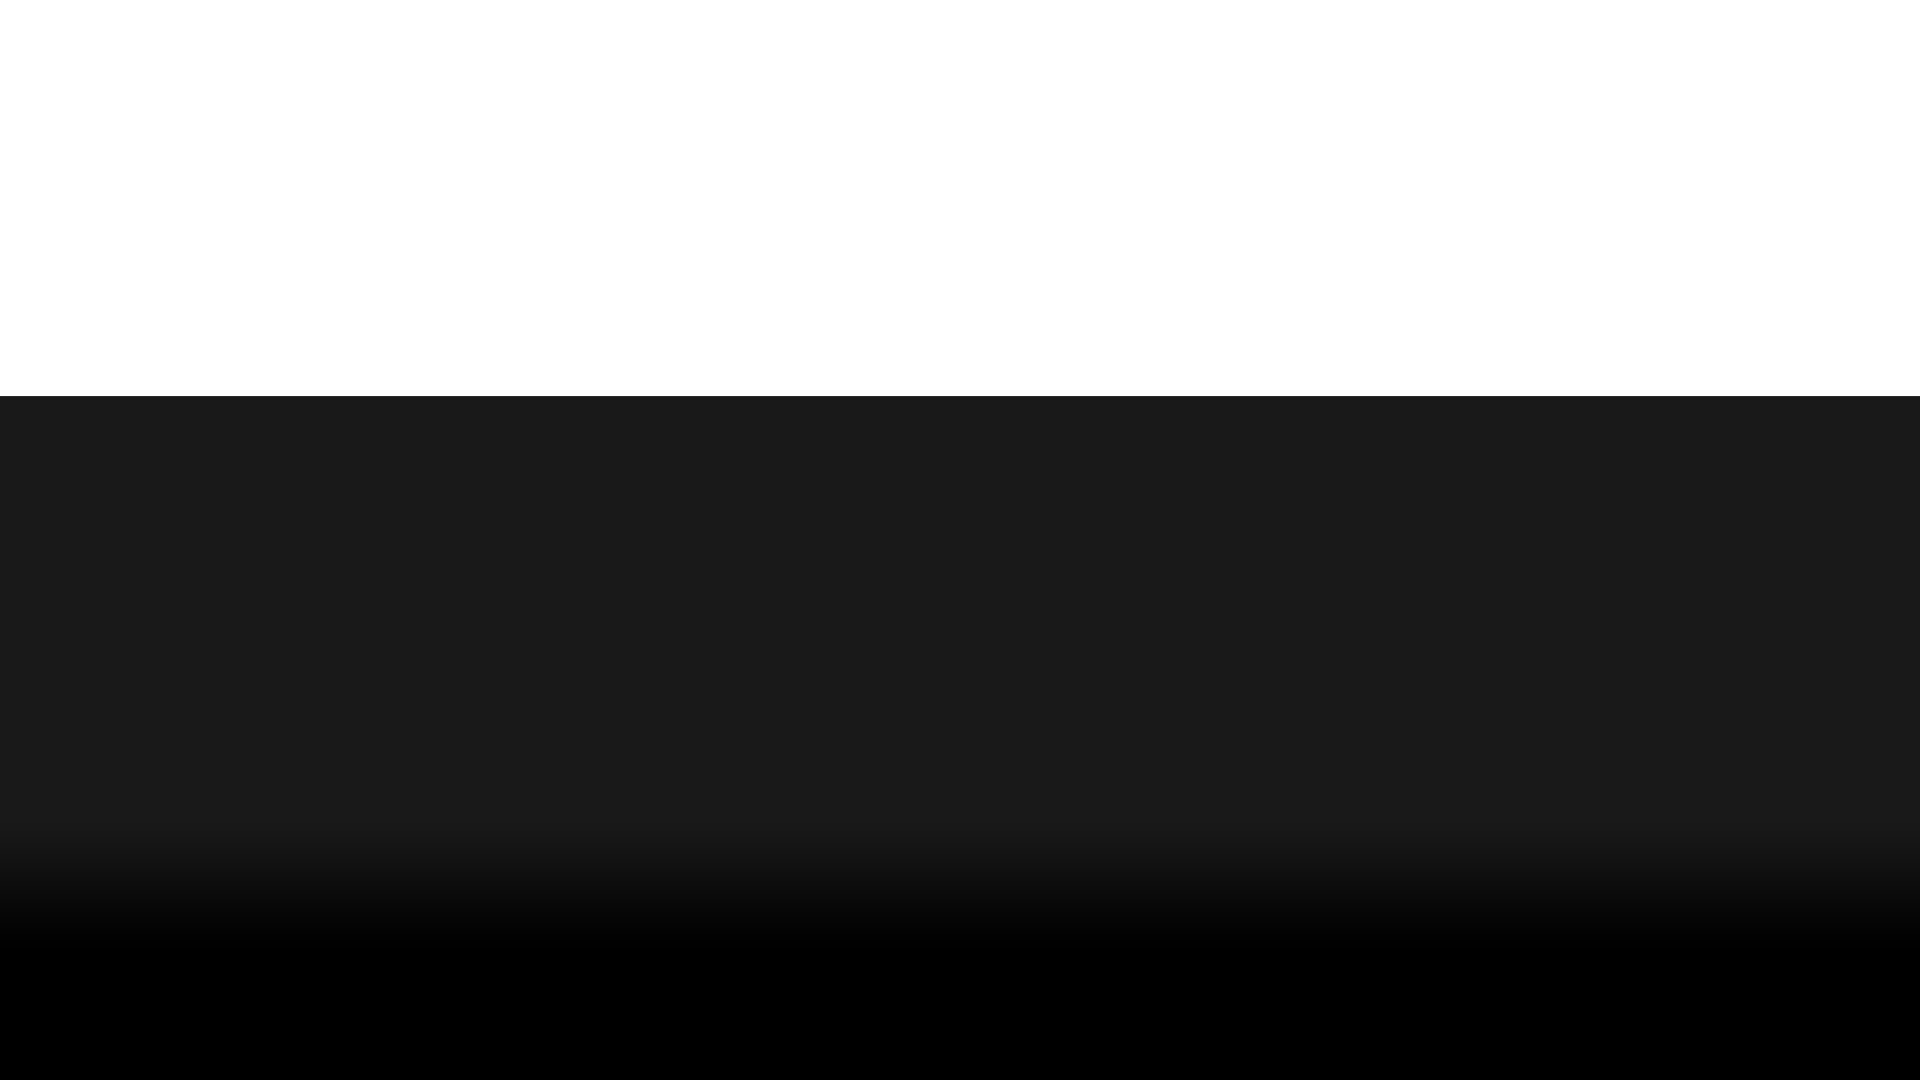
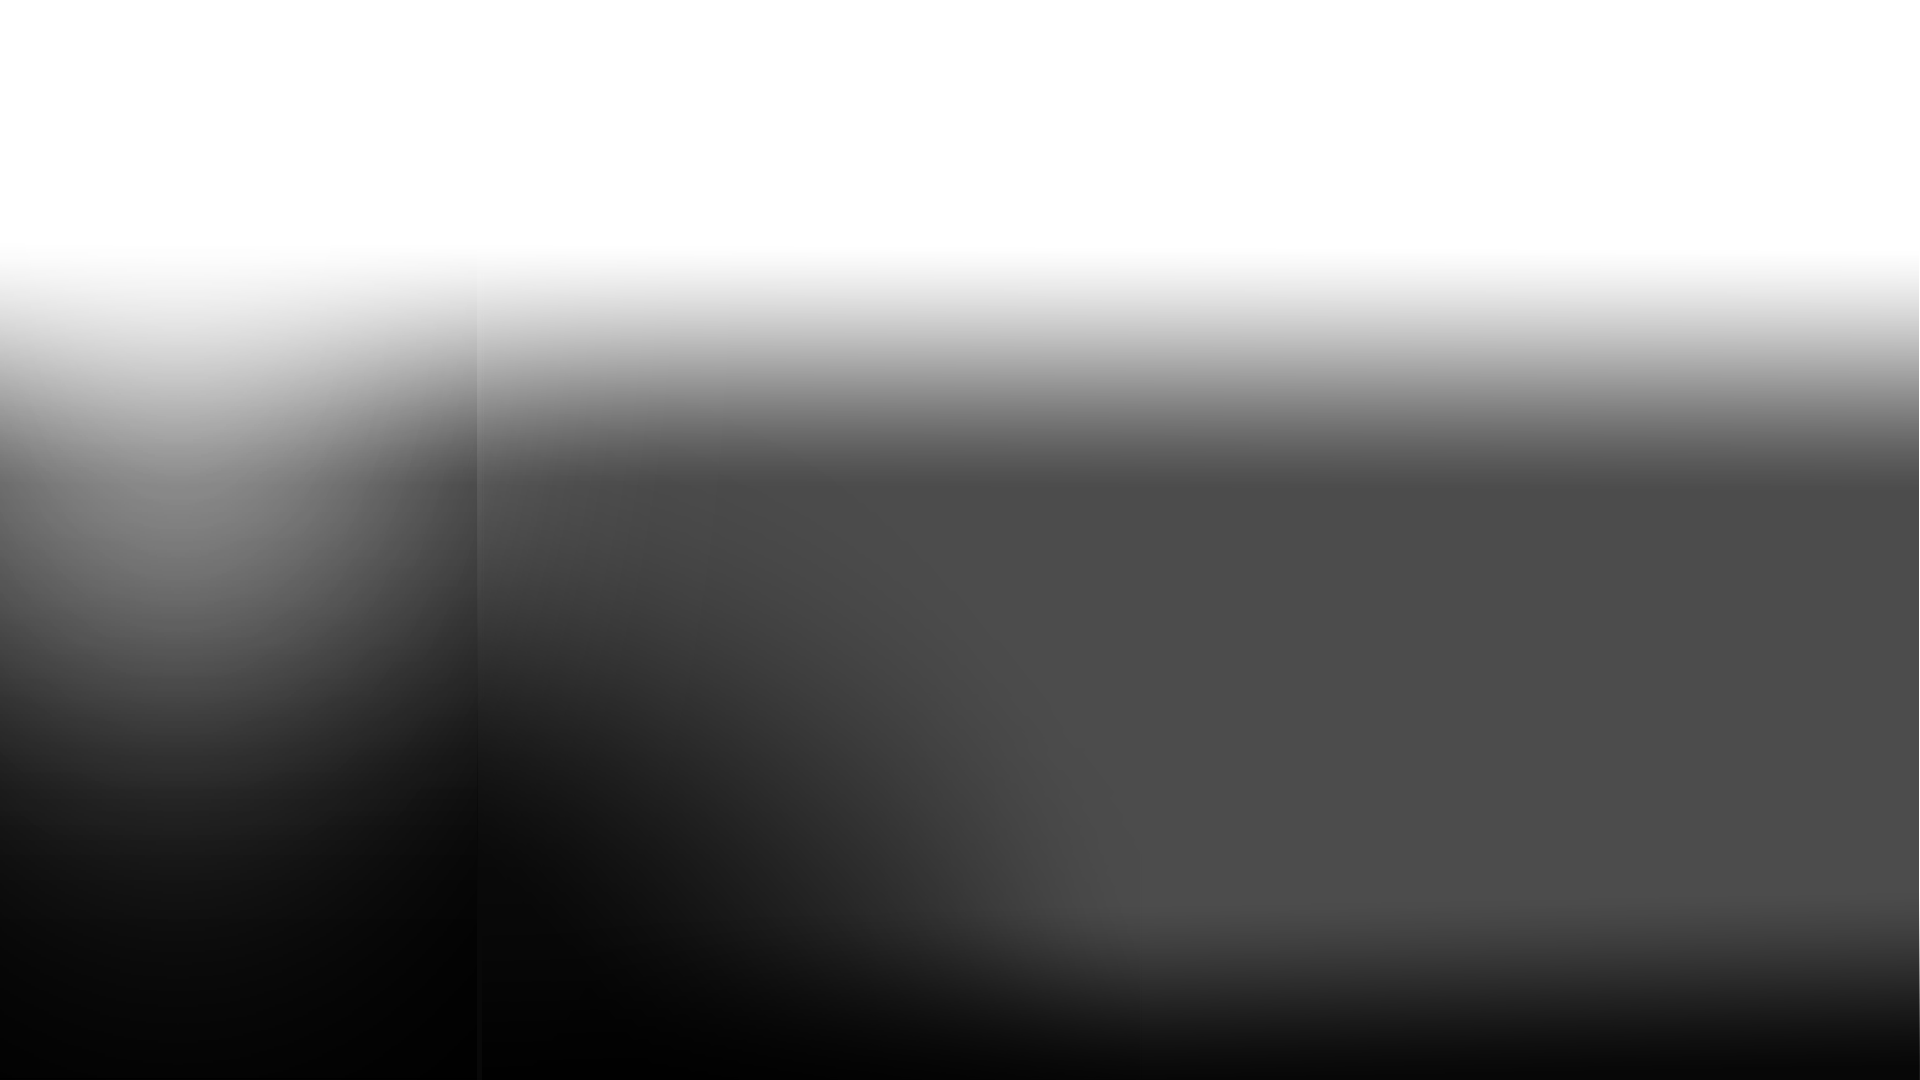
Layout updates

diff --git a/fanart/gradient.php b/fanart/gradient.php
@@ -58,20 +58,20 @@ if (isset($image) ) {
         $white = imagecolorallocate($sized_image, 255, 255, 255);
 
         $font = 'HelveticaBold';
-        $h = $destHeight / 7.2;
+        $h = $destHeight / 7.0;
         $w = $destWidth / 3.66;
         $fs = $destHeight / 36;
         imagettftext($sized_image, $fs, 0, $w, $h, $white, $font, $text);
         
     } else if ($gradient == 'tvseason') {
-        $font = 'HelveticaNeue';
+        /*$font = 'HelveticaNeue';
         $h = $destHeight / 3.4;
         $w = $destWidth / 28;
         $shadowh = $h + 2;
         $shadoww = $w + 2;
         $fs = $destHeight / 15;
         imagettftext($sized_image, $fs, 0, $shadoww, $shadowh, $black, $font, $text);
-        imagettftext($sized_image, $fs, 0, $w, $h, $white, $font, $text);
+        imagettftext($sized_image, $fs, 0, $w, $h, $white, $font, $text);*/
         
     } else if ($gradient == 'seasons') {
         //imagefilter($sized_image, IMG_FILTER_GAUSSIAN_BLUR);
@@ -90,7 +90,7 @@ if (isset($image) ) {
     } else {
         imagecopy($sized_image, $line_image, 0, 0, 0, 0, $destWidth, $destHeight);
         $font = 'HelveticaNeue';
-        $h = $destHeight / 2.25;
+        $h = $destHeight / 2.75;
         $w = $destWidth / 3.66;
         $shadowh = $h + 3;
         $shadoww = $w + 3;
